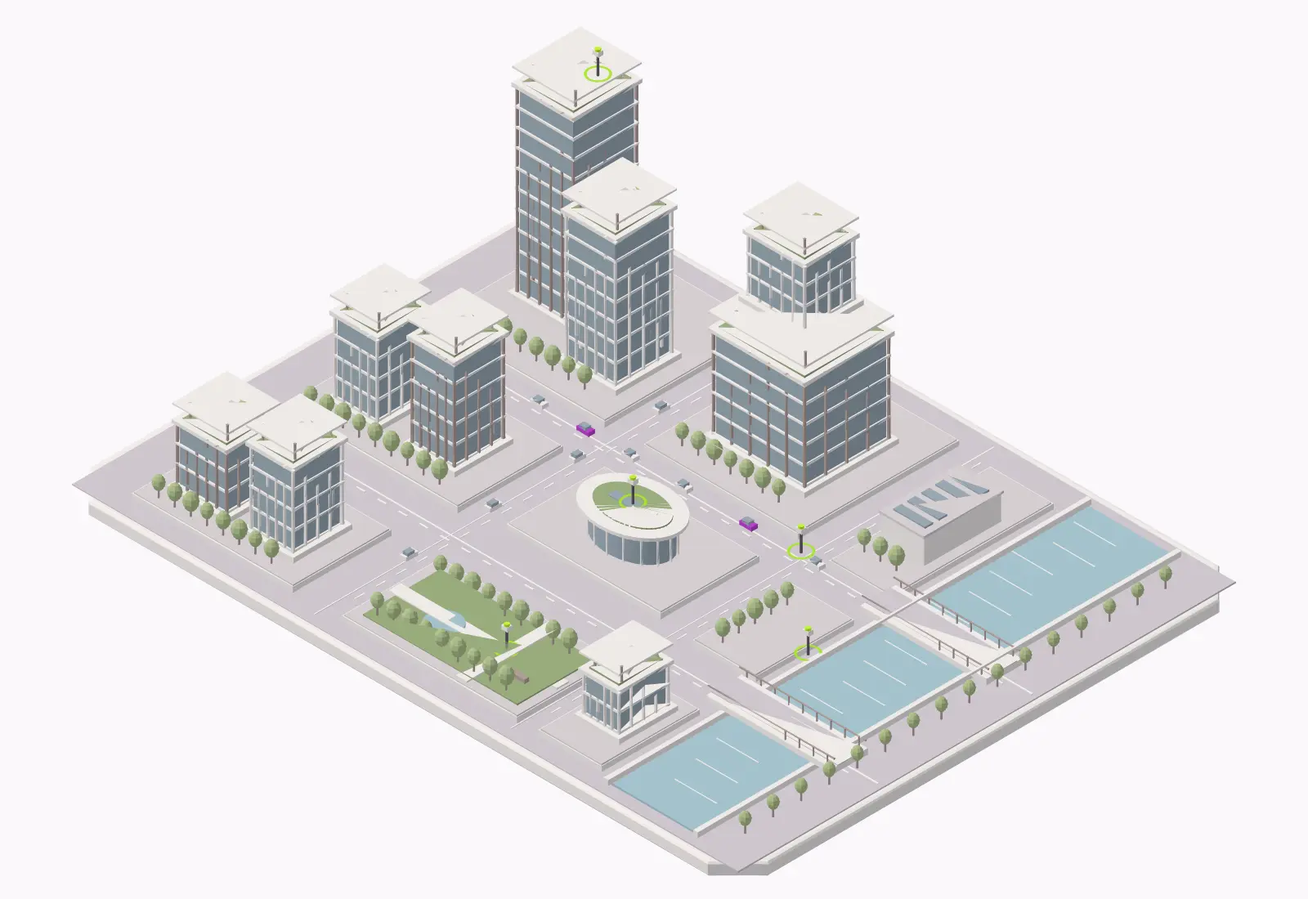
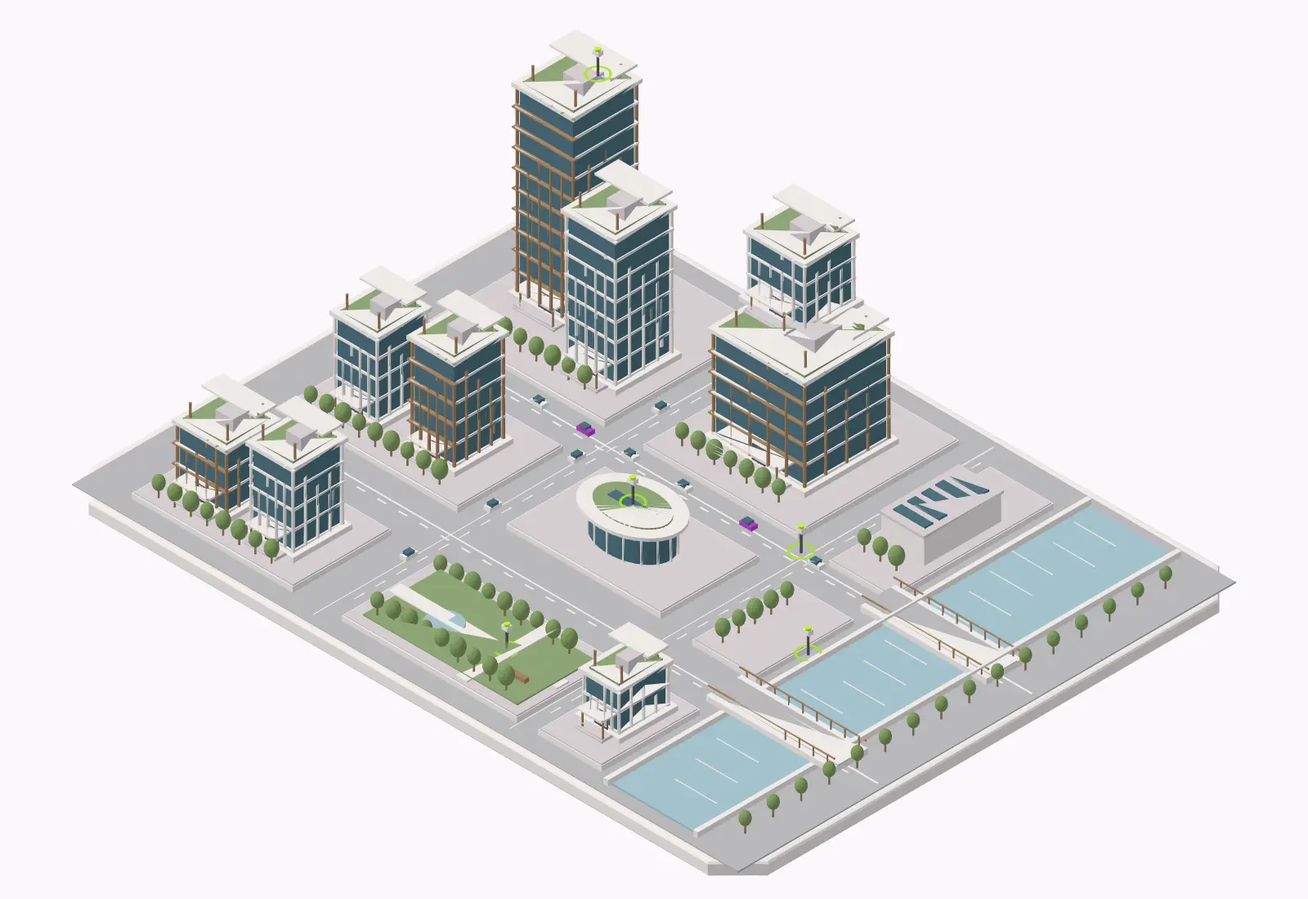
Smooth city transitions, preserve rendering quality, and simplify solution explanations

diff --git a/src/intelligence/app.js b/src/intelligence/app.js
@@ -1,5 +1,5 @@
 import './style.css';
-import {chapters,useCases,assetInfo,stateAt,chapterProgress,useProgress,totalLength} from './content.js';
+import {chapters,useCases,simpleCases,assetInfo,stateAt,chapterProgress,useProgress,totalLength} from './content.js';
 const $=q=>document.querySelector(q),$$=q=>[...document.querySelectorAll(q)];
 const arrow='<svg viewBox="0 0 24 24" fill="none" stroke="currentColor" stroke-width="1.6" aria-hidden="true"><path d="M5 12h14m-6-6 6 6-6 6"/></svg>';
 const mark='<svg viewBox="0 0 38 38" fill="none" aria-hidden="true"><path d="m19 3 15 8v16l-15 8L4 27V11Z" stroke="currentColor" stroke-width="1.5"/><path d="m4 11 15 8 15-8M19 19v16" stroke="currentColor" stroke-width="1.5"/><path d="m19 9 9 5-9 5-9-5Z" fill="#c7ff3d"/></svg>';
@@ -18,27 +18,27 @@ document.querySelector('#app').innerHTML=`
 <p class="disclosure">Illustrative experience using mock data. Not connected to live systems.</p></main><div id="scroll-space" aria-hidden="true"></div><div id="announce" class="sr" aria-live="polite"></div>
 <section class="mobile-summary"><img class="city-poster" src="/city-intelligence-poster.webp" alt="Isometric city with workplace towers, residences, an operations pavilion, a riverside park and bridges" loading="lazy" width="1600" height="1100"><h2>A city in perspective.</h2><p>Explore the complete 3D story on a desktop. This lightweight summary follows the same roadmap.</p>${chapters.map((c,i)=>`<article><span>0${i+1} / ${c.name}</span><h3>${c.title.replaceAll('\n',' ')}</h3><p>${c.copy}</p></article>`).join('')}</section>`;
 $('#scroll-space').style.height=`${totalLength*100+100}vh`;
-let scene=null,current=stateAt(0),lastKey='',reduced=matchMedia('(prefers-reduced-motion: reduce)').matches,lastOpener=null;
+let scene=null,current=stateAt(0),lastKey='',lastContext='',reduced=matchMedia('(prefers-reduced-motion: reduce)').matches,lastOpener=null;
 $('#motion').setAttribute('aria-pressed',String(reduced));document.body.classList.toggle('reduced',reduced);
 const miniChart=(v=0,color='orchid')=>`<svg class="spark ${color}" viewBox="0 0 240 52" aria-label="Illustrative trend"><path d="M0 42H240" class="baseline"/><path d="M0 38 24 36 48 39 72 32 96 34 120 27 144 28 168 ${28-v*10} 192 ${22-v*12} 216 ${20-v*14} 240 ${18-v*15}"/></svg>`;
 function context(s){
  if(s.index===0)return `<div class="quiet-context"><span class="live-pill"><i></i>A living network</span><div class="signal-row"><span>Traffic</span><b>Moving</b></div><div class="signal-row"><span>Environment</span><b>Observed</b></div><div class="signal-row"><span>Infrastructure</span><b>Connected by place</b></div></div>`;
  if(s.index===1){const names=['GIS','CCTV & video','Traffic management','Building & energy','Incident & service','Environment & weather','Reports & spreadsheets'];return `<div class="system-silos"><p>Different systems. Different moments.</p>${names.map((n,i)=>`<div><i></i><span>${n}</span><small>${[2,12,4,18,7,3,60][i]} min ago</small></div>`).join('')}<p class="warning-text">Waterway event · awareness delayed</p></div>`;}
- if(s.index===2)return `<div class="platform-card"><span class="live-pill"><i></i>Shared operational context</span><h2>Many sources.<br>One perspective.</h2><ol>${['Data sources','Integration & APIs','Governed data platform','Analytics & Operational Twin','Operational applications'].map((x,i)=>`<li class="${s.local>i*.12?'on':''}"><span>0${i+1}</span>${x}</li>`).join('')}</ol><p class="governance">Security & governance across every layer</p></div>`;
- if(s.index===3)return `<div class="operation-card"><span class="card-label">Operational Digital Twin</span><h2>${s.local>.6?'Revisit the sequence.':'Give data a place.'}</h2><div class="layer-row"><b>Asset registry</b><span>Locations & relationships</span></div><div class="layer-row"><b>Event layer</b><span>Alerts in their physical context</span></div><div class="layer-row"><b>Historical playback</b><span>${s.local>.6?'Earlier observations selected':'Current observations selected'}</span></div><div class="timeline"><i style="left:${Math.round(s.local*90)}%"></i></div><p>Current state and history stay distinct. Predictive overlays arrive in Phase 3.</p></div>`;
- if(s.index===4)return `<div class="operation-card"><span class="card-label">Device health & freshness</span><h2>Signals with context.</h2>${[['Water level','0.82 m'],['Air quality','18 µg/m³'],['Traffic camera','Low density'],['Energy meter','420 kW'],['Weather station','0 mm/h']].map(([n,v],i)=>`<div class="sensor-row ${s.local>i*.13?'on':''}"><i></i><span>${n}<small>${s.local>i*.13?'Healthy · updated 12 sec ago':'Information gap identified'}</small></span><b>${s.local>i*.13?v:'—'}</b></div>`).join('')}<p>Illustrative near real-time observations.</p></div>`;
- if(s.index===5){const u=useCases[s.useIndex],value=[s.water.toFixed(2),s.traffic,s.air,s.energy,s.incident][s.useIndex];return `<div class="operation-card usecase-card"><span class="card-label">${String(s.useIndex+1).padStart(2,'0')} / 05 · ${u.name}</span><div class="metric"><span>${u.metric}</span><strong>${value}<small>${u.unit}</small></strong><p>${u.baseline}</p></div>${miniChart(s.u)}<div class="flow-copy"><span>Connect</span><p>${u.source}</p><span>Understand</span><p>${u.process}</p><span>Act</span><p>${u.action}</p></div><button class="detail-link" data-asset="${u.focus}">Inspect this solution ${arrow}</button></div>`;}
+ if(s.index===2)return `<div class="platform-card"><span class="live-pill"><i></i>Shared operational context</span><h2>Many sources.<br>One perspective.</h2><ol>${['Keep existing systems','Connect their information','Check quality and access','Show the same situation','Coordinate the next action'].map((x,i)=>`<li class="${s.local>i*.12?'on':''}"><span>0${i+1}</span>${x}</li>`).join('')}</ol><p class="governance">Security & governance across every layer</p></div>`;
+ if(s.index===3)return `<div class="operation-card"><span class="card-label">Operational Digital Twin</span><h2>${s.local>.6?'Revisit the sequence.':'Give data a place.'}</h2><div class="layer-row"><b>Where is it?</b><span>Buildings and devices on the map</span></div><div class="layer-row"><b>What happened?</b><span>Alerts beside the affected asset</span></div><div class="layer-row"><b>What changed?</b><span>${s.local>.6?'Earlier observations selected':'Current observations selected'}</span></div><div class="timeline"><i style="left:${Math.round(s.local*90)}%"></i></div><p>Current state and history stay distinct. Predictive overlays arrive in Phase 3.</p></div>`;
+ if(s.index===4)return `<div class="operation-card"><span class="card-label">Device health & freshness</span><h2>Fresh readings.<br>Working devices.</h2>${[['Water level','0.82 m'],['Air quality','18 µg/m³'],['Traffic camera','Low density'],['Energy meter','420 kW'],['Weather station','0 mm/h']].map(([n,v],i)=>`<div class="sensor-row ${s.local>i*.13?'on':''}"><i></i><span>${n}<small>${s.local>i*.13?'Healthy · updated 12 sec ago':'Information gap identified'}</small></span><b>${s.local>i*.13?v:'—'}</b></div>`).join('')}<p>Illustrative near real-time observations.</p></div>`;
+ if(s.index===5){const u=useCases[s.useIndex],simple=simpleCases[s.useIndex],step=s.u<.33?0:s.u<.66?1:2,value=[s.water.toFixed(2),s.traffic,s.air,s.energy,s.incident][s.useIndex];return `<div class="operation-card usecase-card"><span class="card-label">${String(s.useIndex+1).padStart(2,'0')} / 05 · ${u.name}</span><div class="metric"><span>${u.metric}</span><strong>${value}<small>${u.unit}</small></strong><p>${u.baseline}</p></div>${miniChart(s.u)}<ol class="explain-steps">${[["What happens",simple.problem],["What you see",simple.see],["What the team does",simple.act]].map(([label,text],i)=>`<li class="${i===step?'active':''}"><span>${i+1}</span><div><b>${label}</b><p>${text}</p></div></li>`).join('')}</ol><button class="detail-link" data-asset="${u.focus}">How this solution works ${arrow}</button></div>`;}
  if(s.index===6)return `<div class="operation-card prediction-card"><span class="card-label">Illustrative forecast</span><h2>30 minutes ahead.</h2><div class="comparison"><div><span>Observed now</span><strong>1.26<small>m</small></strong></div><div><span>Predicted +30 min</span><strong>${(1.26+s.forecast*.72).toFixed(2)}<small>m</small></strong></div></div>${miniChart(s.forecast)}<p class="warning-text">Rising faster than the historical pattern</p><ol class="recommendations"><li>Review exposed access roads</li><li>Verify field conditions with the team</li><li>Prepare response resources</li></ol><div class="demo-actions"><button disabled>Review</button><button disabled>Approve</button></div><p>Visual demonstration only. People remain responsible for every decision.</p>${s.local>.8?'<p class="energy-note">Energy anomaly · 548 kW vs 420 kW baseline. Inspection recommended; cause unconfirmed.</p>':''}</div>`;
  return `<div class="roadmap-card"><span class="card-label">Build on each phase</span><h2>Start focused.<br>Scale with purpose.</h2><ol>${['Connect existing data','Create operational visibility','Expand with IoT','Advance with AI','Measure and scale'].map((x,i)=>`<li><span>0${i+1}</span>${x}</li>`).join('')}</ol><p>Shared visibility. Earlier awareness.<br>More coordinated operations.</p></div>`;
 }
 function update(p){current=stateAt(p);const s=current,c=chapters[s.index];const key=`${s.index}-${s.useIndex}`;
- if(key!==lastKey){lastKey=key;$('#chapter-number').textContent=`${String(s.index+1).padStart(2,'0')} / 08`;$('#chapter-name').textContent=c.name;$('#story-title').textContent=s.index===5?useCases[s.useIndex].title:c.title;$('#story-copy').textContent=s.index===5?useCases[s.useIndex].copy:c.copy;$('#story-note').textContent=c.note;$('#start').hidden=s.index!==0;$('#usecases').hidden=s.index!==5;$('#footer-count').textContent=`${String(s.index+1).padStart(2,'0')} / 08`;$('#previous').disabled=s.index===0;$('#next').disabled=s.index===7;$('#scroll-label').textContent=s.index===7?'Restart to explore again':'Scroll to discover';$('#announce').textContent=`Chapter ${s.index+1}: ${c.name}`;$$('[data-chapter]').forEach((b,i)=>b.setAttribute('aria-current',i===s.index?'step':'false'));$$('[data-use]').forEach((b,i)=>b.setAttribute('aria-current',i===s.useIndex?'step':'false'));document.body.dataset.chapter=s.index;}
- $('#total-progress').style.width=`${s.p*100}%`;$('#context').innerHTML=context(s);$('#scene-state').textContent=s.index===6?'Current observations + predicted impact':s.index===1?'Disconnected systems':s.index>=2?'One shared operational view':'A connected view of city life';
+ if(key!==lastKey){if(!reduced&&lastKey){$('.story-copy').animate([{opacity:.35,transform:'translateY(6px)'},{opacity:1,transform:'translateY(0)'}],{duration:260,easing:'ease-out'});}lastKey=key;$('#chapter-number').textContent=`${String(s.index+1).padStart(2,'0')} / 08`;$('#chapter-name').textContent=c.name;$('#story-title').textContent=s.index===5?useCases[s.useIndex].title:c.title;$('#story-copy').textContent=s.index===5?useCases[s.useIndex].copy:c.copy;$('#story-note').textContent=c.note;$('#start').hidden=s.index!==0;$('#usecases').hidden=s.index!==5;$('#footer-count').textContent=`${String(s.index+1).padStart(2,'0')} / 08`;$('#previous').disabled=s.index===0;$('#next').disabled=s.index===7;$('#scroll-label').textContent=s.index===7?'Restart to explore again':'Scroll to discover';$('#announce').textContent=`Chapter ${s.index+1}: ${c.name}`;$$('[data-chapter]').forEach((b,i)=>b.setAttribute('aria-current',i===s.index?'step':'false'));$$('[data-use]').forEach((b,i)=>b.setAttribute('aria-current',i===s.useIndex?'step':'false'));document.body.dataset.chapter=s.index;}
+ $('#total-progress').style.width=`${s.p*100}%`;const nextContext=context(s);if(nextContext!==lastContext){$('#context').innerHTML=nextContext;lastContext=nextContext;}$('#scene-state').textContent=s.index===6?'Current observations + predicted impact':s.index===1?'Disconnected systems':s.index>=2?'One shared operational view':'A connected view of city life';
  $('#return').hidden=true;scene?.update(s,reduced);
 }
 function scrollP(){return window.scrollY/Math.max(1,document.documentElement.scrollHeight-innerHeight);}
 let pending=false;addEventListener('scroll',()=>{if(pending)return;pending=true;requestAnimationFrame(()=>{pending=false;update(scrollP());});},{passive:true});
-function jump(p){window.scrollTo({top:p*(document.documentElement.scrollHeight-innerHeight),behavior:'instant'});update(p);}
+function jump(p){window.scrollTo({top:p*(document.documentElement.scrollHeight-innerHeight),behavior:reduced?'instant':'smooth'});if(reduced)update(p);}
 function chapter(i){const n=Math.max(0,Math.min(7,i));jump(chapterProgress(n)+.0001);history.replaceState(null,'',`#chapter-${n+1}`);}
 $('#start').onclick=()=>chapter(1);$('#next').onclick=()=>chapter(current.index+1);$('#previous').onclick=()=>chapter(current.index-1);$('#restart').onclick=()=>chapter(0);$('.identity').onclick=e=>{e.preventDefault();chapter(0);};
 $('#motion').onclick=()=>{reduced=!reduced;$('#motion').setAttribute('aria-pressed',String(reduced));document.body.classList.toggle('reduced',reduced);scene?.update(current,reduced);};

diff --git a/src/intelligence/scene.js b/src/intelligence/scene.js
@@ -6,25 +6,27 @@ import {createCity} from './model.js';
 import {chapters,useCases} from './content.js';
 export async function mountScene(host,{select,manual,ready}){
  const scene=new T.Scene();const tagLayer=document.createElement('div');tagLayer.className='map-tags';host.appendChild(tagLayer);const tags=['water','office','hub'].map(id=>{const el=document.createElement('span');el.className='map-tag';tagLayer.appendChild(el);return {id,el};});const city=createCity();scene.add(city.root);
- scene.add(new T.HemisphereLight(0xffffff,0x9c8fa5,2.5));const sun=new T.DirectionalLight(0xfff8f1,3.4);sun.position.set(-40,85,45);sun.castShadow=true;sun.shadow.mapSize.set(2048,2048);Object.assign(sun.shadow.camera,{left:-70,right:70,top:70,bottom:-70,near:1,far:180});sun.shadow.bias=-.0003;sun.shadow.normalBias=.1;sun.shadow.radius=3;scene.add(sun);
+ scene.add(new T.HemisphereLight(0xffffff,0x9c8fa5,1.3));const sun=new T.DirectionalLight(0xfff8f1,2.5);sun.position.set(-40,85,45);sun.castShadow=true;sun.shadow.mapSize.set(2048,2048);Object.assign(sun.shadow.camera,{left:-70,right:70,top:70,bottom:-70,near:1,far:180});sun.shadow.bias=-.0003;sun.shadow.normalBias=.1;sun.shadow.radius=3;scene.add(sun);
  let renderer,webgl=true,pmrem;
- try{renderer=new T.WebGLRenderer({antialias:true,alpha:true,powerPreference:'high-performance'});renderer.setPixelRatio(Math.min(devicePixelRatio,2));renderer.shadowMap.enabled=true;renderer.shadowMap.type=T.PCFSoftShadowMap;renderer.toneMapping=T.ACESFilmicToneMapping;renderer.toneMappingExposure=1.18;pmrem=new T.PMREMGenerator(renderer);scene.environment=pmrem.fromScene(new RoomEnvironment(),.08).texture;pmrem.dispose();}
+ try{renderer=new T.WebGLRenderer({antialias:true,alpha:true,powerPreference:'high-performance'});renderer.setPixelRatio(Math.min(devicePixelRatio,2));renderer.shadowMap.enabled=true;renderer.shadowMap.type=T.PCFSoftShadowMap;renderer.toneMapping=T.ACESFilmicToneMapping;renderer.toneMappingExposure=.98;pmrem=new T.PMREMGenerator(renderer);scene.environment=pmrem.fromScene(new RoomEnvironment(),.08).texture;scene.environmentIntensity=.65;pmrem.dispose();}
  catch{webgl=false;renderer=new SVGRenderer();renderer.setQuality('low');sun.intensity=.65;scene.add(new T.AmbientLight(0xaaaaaa,1));}
  renderer.setClearColor(0xfaf8fc,0);host.appendChild(renderer.domElement);
  renderer.domElement.setAttribute('aria-label','Interactive isometric city. Use the location buttons to inspect solutions.');
  const camera=new T.OrthographicCamera(-60,60,50,-50,.1,400);const angle=Math.PI/4,polar=55*Math.PI/180;
  const controls=new OrbitControls(camera,renderer.domElement);controls.enableDamping=false;controls.enablePan=false;controls.enableZoom=false;controls.minAzimuthAngle=angle-12*Math.PI/180;controls.maxAzimuthAngle=angle+12*Math.PI/180;controls.minPolarAngle=polar-5*Math.PI/180;controls.maxPolarAngle=polar+5*Math.PI/180;
  let state=null,span=112,frame=0,isManual=false,dirty=true,point=new T.Vector3(0,6,0),last=0,low=false;
- const targets={all:[0,10,0],hub:[0,5,3],office:[-16,12,-18],water:[21,4,3],traffic:[5,4,-3],park:[0,3,21],residence:[-29,7,8]};
- function resize(){const w=host.clientWidth,h=host.clientHeight;if(!w||!h)return;renderer.setSize(w,h);camera.left=-span/2;camera.right=span/2;camera.top=span/2*h/w;camera.bottom=-span/2*h/w;camera.updateProjectionMatrix();dirty=true;}
- function canonical(focus,desiredSpan,previous=null,t=1){point.fromArray(targets[focus]||targets.all);if(previous)point.lerpVectors(new T.Vector3(...(targets[previous]||targets.all)),point,t);controls.target.copy(point);const dir=new T.Vector3(Math.sin(polar)*Math.sin(angle),Math.cos(polar),Math.sin(polar)*Math.cos(angle));camera.position.copy(point).addScaledVector(dir,145);camera.lookAt(point);span=desiredSpan;camera.zoom=1;resize();controls.update();isManual=false;}
+ let desiredPoint=new T.Vector3(0,10,0),desiredSpan=136,settleImmediately=true;const direction=new T.Vector3(Math.sin(polar)*Math.sin(angle),Math.cos(polar),Math.sin(polar)*Math.cos(angle));
+ const targets={all:[0,10,0],hub:[0,8,3],office:[-10,13,-12],water:[13,8,4],traffic:[3,8,-3],park:[0,7,13],residence:[-29,7,8]};
+ let viewWidth=0,viewHeight=0;function resize(){const w=host.clientWidth,h=host.clientHeight;if(!w||!h)return;if(w!==viewWidth||h!==viewHeight){renderer.setSize(w,h);viewWidth=w;viewHeight=h;}camera.left=-span/2;camera.right=span/2;camera.top=span/2*h/w;camera.bottom=-span/2*h/w;camera.updateProjectionMatrix();dirty=true;}
+ function canonical(focus,nextSpan,previous=null,t=1){desiredPoint.fromArray(targets[focus]||targets.all);if(previous)desiredPoint.lerpVectors(new T.Vector3(...(targets[previous]||targets.all)),desiredPoint,t);desiredSpan=nextSpan;isManual=false;dirty=true;}
+ function applyCamera(alpha=1){point.lerp(desiredPoint,alpha);span+=(desiredSpan-span)*alpha;controls.target.copy(point);camera.position.copy(point).addScaledVector(direction,145);camera.lookAt(point);camera.zoom=1;resize();controls.update();}
  controls.addEventListener('start',()=>{isManual=true;manual();});controls.addEventListener('change',()=>{dirty=true;});
  const ray=new T.Raycaster();let down;
  renderer.domElement.addEventListener('pointerdown',e=>down=[e.clientX,e.clientY]);
  renderer.domElement.addEventListener('pointerup',e=>{if(!down||Math.hypot(e.clientX-down[0],e.clientY-down[1])>5)return;const b=renderer.domElement.getBoundingClientRect();ray.setFromCamera(new T.Vector2((e.clientX-b.left)/b.width*2-1,-(e.clientY-b.top)/b.height*2+1),camera);for(const hit of ray.intersectObject(city.root,true)){let o=hit.object;while(o&&!o.userData.asset)o=o.parent;if(o){select(o.userData.asset);break;}}});
  new ResizeObserver(resize).observe(host);
- function update(s,reduced=false){state=s;city.update(s);const c=chapters[s.index];const f=s.focus;const nextSpan=s.index===5?98:c.span;const before=s.index===5?(s.useIndex?useCases[s.useIndex-1].focus:chapters[4].focus):s.index===6?useCases[4].focus:chapters[Math.max(0,s.index-1)].focus;const local=s.index===5?s.u:s.local;const t=reduced?1:Math.min(1,local/.2);const eased=t*t*(3-2*t);const prevSpan=s.index===5?(s.useIndex?98:chapters[4].span):s.index===6?98:chapters[Math.max(0,s.index-1)].span;canonical(f,prevSpan+(nextSpan-prevSpan)*eased,before,eased);dirty=true;}
- function render(now){frame=requestAnimationFrame(render);if(document.hidden||!dirty||now-last<(webgl?16:110))return;last=now;const begin=performance.now();renderer.render(scene,camera);if(state){const labels={water:state.index===6?'Predicted impact · +30 min':state.flood>.3?`Water level · ${state.water.toFixed(2)} m`:'Waterway / Environmental data',office:state.index===5&&state.useIndex===3?`Building demand · ${state.energy} kW`:'Workplace / Energy data',hub:state.index===1?'Shared view missing':'Operations / Shared context'};for(const {id,el} of tags){const pos=new T.Vector3(...city.locations[id]);pos.y+=4;pos.project(camera);const x=(pos.x+1)/2*host.clientWidth,y=(1-pos.y)/2*host.clientHeight;el.hidden=x<50||x>host.clientWidth-100||y<30||y>host.clientHeight-35||(state.index>2&&state.index<7&&state.focus!==id);el.style.transform=`translate(${x}px,${y}px)`;el.textContent=labels[id];}}dirty=false;if(webgl&&!low&&performance.now()-begin>45){renderer.setPixelRatio(1);renderer.shadowMap.enabled=false;low=true;dirty=true;}}
- canonical('all',136);render(0);ready(webgl?'3D ready':'Lightweight 3D view');
+ function update(s,reduced=false){state=s;settleImmediately=reduced;city.update(s);const c=chapters[s.index];const f=s.focus;const nextSpan=s.index===5?112:c.span;const before=s.index===5?(s.useIndex?useCases[s.useIndex-1].focus:chapters[4].focus):s.index===6?useCases[4].focus:chapters[Math.max(0,s.index-1)].focus;const local=s.index===5?s.u:s.local;const t=reduced?1:Math.min(1,local/.55);const eased=t*t*(3-2*t);const prevSpan=s.index===5?(s.useIndex?112:chapters[4].span):s.index===6?112:chapters[Math.max(0,s.index-1)].span;canonical(f,prevSpan+(nextSpan-prevSpan)*eased,before,eased);dirty=true;}
+ function render(now){frame=requestAnimationFrame(render);if(document.hidden||!dirty||now-last<(webgl?16:110))return;const dt=Math.min(50,now-last||16);last=now;if(!isManual)applyCamera(settleImmediately?1:1-Math.exp(-dt/85));const moving=!isManual&&(point.distanceTo(desiredPoint)>.005||Math.abs(span-desiredSpan)>.005);renderer.render(scene,camera);if(state){const labels={water:state.index===6?'Predicted impact · +30 min':state.flood>.3?`Water level · ${state.water.toFixed(2)} m`:'Waterway / Environmental data',office:state.index===5&&state.useIndex===3?`Building demand · ${state.energy} kW`:'Workplace / Energy data',hub:state.index===1?'Shared view missing':'Operations / Shared context'};for(const {id,el} of tags){const pos=new T.Vector3(...city.locations[id]);pos.y+=4;pos.project(camera);const x=(pos.x+1)/2*host.clientWidth,y=(1-pos.y)/2*host.clientHeight;el.hidden=x<50||x>host.clientWidth-100||y<30||y>host.clientHeight-35||(state.index>2&&state.index<7&&state.focus!==id);el.style.transform=`translate(${x}px,${y}px)`;el.textContent=labels[id];}}dirty=moving;}
+ canonical('all',136);applyCamera(1);render(0);ready(webgl?'3D ready':'Lightweight 3D view');
  return {update,focus(id){canonical(id,75);dirty=true;},restore(){if(state)update(state);},resize,dispose(){cancelAnimationFrame(frame);controls.dispose();renderer.dispose?.();}};
 }

diff --git a/src/intelligence/content.js b/src/intelligence/content.js
@@ -1,11 +1,11 @@
 export const chapters = [
  {name:'A living city',title:'Every city has\na story in its data.',copy:'Movement. Energy. Water. People. A living network of signals, waiting to become a shared understanding.',note:'Start with the city you already have.',focus:'all',span:136,length:1.3},
  {name:'The disconnect',title:'The data exists.\nThe connection\nis missing.',copy:'Seven valuable systems. Different update times. Separate views of the same city. An incident can be visible to one team and invisible to another.',note:'Fragmented information delays shared awareness.',focus:'all',span:136,length:1.6},
- {name:'One connected platform',title:'Bring the pieces\ninto perspective.',copy:'Connect existing systems through one governed data platform. Give every source a shared location, asset and operational context.',note:'Connect existing systems. Preserve their value.',focus:'hub',span:86,length:1.5},
- {name:'01 / Data foundation',title:'Start with what\nyou already know.',copy:'Turn existing GIS, asset records and events into an Operational Digital Twin. See current status, explore relationships and revisit what happened.',note:'An operational view, not a physics simulation.',focus:'office',span:88,length:1.6},
- {name:'02 / IoT visibility',title:'Fill the gaps.\nSee the change.',copy:'Add sensors where information is missing. Bring field conditions, device health and data freshness into the same operational picture.',note:'Every new device serves a defined information gap.',focus:'water',span:93,length:1.6},
+ {name:'One connected platform',title:'Bring the pieces\ninto perspective.',copy:'Connect existing systems through one governed data platform. Give every source a shared location, asset and operational context.',note:'Connect existing systems. Preserve their value.',focus:'hub',span:112,length:1.5},
+ {name:'01 / Data foundation',title:'Start with what\nyou already know.',copy:'Turn existing GIS, asset records and events into an Operational Digital Twin. See current status, explore relationships and revisit what happened.',note:'An operational view, not a physics simulation.',focus:'office',span:112,length:1.6},
+ {name:'02 / IoT visibility',title:'Fill the gaps.\nSee the change.',copy:'Add sensors where information is missing. Bring field conditions, device health and data freshness into the same operational picture.',note:'Every new device serves a defined information gap.',focus:'water',span:112,length:1.6},
  {name:'One platform. Five priorities.',title:'Connected data.\nPractical action.',copy:'Move between five operational priorities, all connected to the same city and the same foundation.',note:'Scroll to follow each use case.',focus:'water',span:83,length:4.6},
- {name:'03 / AI intelligence',title:'See what is.\nAnticipate\nwhat comes next.',copy:'Compare current conditions with an illustrative forecast. Detect unusual patterns and bring recommended actions to the people responsible.',note:'AI recommends. People review and decide.',focus:'water',span:89,length:2.2},
+ {name:'03 / AI intelligence',title:'See what is.\nAnticipate\nwhat comes next.',copy:'Compare current conditions with an illustrative forecast. Detect unusual patterns and bring recommended actions to the people responsible.',note:'AI recommends. People review and decide.',focus:'water',span:112,length:2.2},
  {name:'The way forward',title:'A connected city.\nA clearer way\nforward.',copy:'Connect existing data. See every situation. Scale from IoT to AI.',note:'Start with a priority. Measure progress. Expand with purpose.',focus:'all',span:136,length:1.3},
 ];
 export const useCases=[
@@ -35,3 +35,24 @@ export function stateAt(progress){
 }
 export function chapterProgress(index){return chapters.slice(0,index).reduce((s,c)=>s+c.length,0)/totalLength;}
 export function useProgress(index){return chapterProgress(5)+chapters[5].length/totalLength*((index+.08)/5);}
+
+// The guided story explains the operational situation first; technical detail is optional.
+const plainChapters=[
+ ['See how a city\nworks together.','Follow one city from disconnected information to coordinated action. Scroll to see how data, sensors and AI help its teams.'],
+ ['A rising river.\nSeparate views.','The water team sees a warning. The traffic team sees a road. Neither sees the whole situation yet.'],
+ ['Connect the data.\nShare the picture.','Bring existing maps, camera events and sensor readings together, so teams can understand the same incident.'],
+ ['See the asset.\nSee its history.','Put buildings, devices and events on one shared map. Check their status and look back at earlier observations.'],
+ ['Measure what\nyou cannot see.','Add sensors where readings are missing. Check water, air, traffic and energy, with a timestamp and device-health status.'],
+ ['One city.\nFive ways to help.','Follow five everyday situations, from the first signal to the next human decision.'],
+ ['Could this road\nflood next?','Compare today’s water level with an illustrative 30-minute forecast. The platform suggests actions; a person reviews them.'],
+ ['Start with data.\nGrow with purpose.','Connect existing systems first. Add sensors where needed. Introduce AI when the information is ready.'],
+];
+plainChapters.forEach(([title,copy],i)=>Object.assign(chapters[i],{title,copy}));
+export const simpleCases=[
+ {title:'Water is rising.\nWhich road is at risk?',copy:'See the water level, the nearby road and the response route together.',problem:'Heavy rain raises the water level.',see:'Show the nearby road and the water warning together.',act:'Review a safer route for the response team.'},
+ {title:'Traffic is building.\nWhere is the blockage?',copy:'Locate congestion and the reported incident, then review another route.',problem:'Traffic slows around a road incident.',see:'Show the blockage and affected road segments.',act:'Review an alternate route with the traffic team.'},
+ {title:'Air quality changes.\nWhich area needs attention?',copy:'Compare the latest reading with earlier conditions and locate the affected zone.',problem:'A station reports higher PM2.5.',see:'Show where readings rose and how they changed.',act:'Ask the environmental team to investigate.'},
+ {title:'One building uses\nmore energy than usual.',copy:'Compare its current demand with its normal pattern before requesting an inspection.',problem:'Demand rises above the building’s baseline.',see:'Compare current demand with normal consumption.',act:'Request an inspection. The cause is not confirmed.'},
+ {title:'An incident opens.\nWho is responding?',copy:'Keep the event, its location and the assigned team in one shared record.',problem:'An incident is reported in a public area.',see:'Link the location, camera event and assigned team.',act:'Track the handover through to resolution.'},
+];
+simpleCases.forEach((c,i)=>Object.assign(useCases[i],{title:c.title,copy:c.copy}));

diff --git a/src/intelligence/model.js b/src/intelligence/model.js
@@ -3,13 +3,13 @@ const cube=new T.BoxGeometry(1,1,1);
 const M=(c,extra={})=>new T.MeshStandardMaterial({color:c,roughness:.55,...extra});
 export function createCity(){
  const root=new T.Group(),buildings=new T.Group(),layers=new T.Group();root.add(buildings,layers);
- const colors={ivory:M('#f7f5f6'),stone:M('#ddd8df'),glass:M('#9eafbe',{metalness:.45,roughness:.2}),dark:M('#665e70'),bronze:M('#b7a5a2',{metalness:.5}),road:M('#d5d0db'),line:M('#ffffff'),green:M('#9eb385'),leaf:M('#b4c896'),lime:M('#c7ff3d'),orchid:M('#c044d9'),water:M('#a9cbd9',{metalness:.35,roughness:.18}),plum:M('#52205e'),warning:M('#f2b84b')};
+ const colors={ivory:M('#f7f5f6'),stone:M('#ddd8df'),glass:M('#517786',{metalness:.32,roughness:.27}),dark:M('#665e70'),bronze:M('#aa8a68',{metalness:.35,roughness:.45}),road:M('#bfc2c8'),line:M('#ffffff'),green:M('#92ac7e'),leaf:M('#88a56a'),lime:M('#c7ff3d'),orchid:M('#c044d9'),water:M('#a9cbd9',{metalness:.35,roughness:.18}),plum:M('#52205e'),warning:M('#f2b84b')};
  const assets={},originals=[],sensors=[],paths=[],silos=[],energyBars=[],tiles=[];
  function box(g,w,h,d,x,y,z,m=colors.ivory){const a=new T.Mesh(cube,m);a.scale.set(w,h,d);a.position.set(x,y,z);a.castShadow=true;a.receiveShadow=true;g.add(a);return a;}
  function cyl(g,r,h,x,y,z,m,segments=20){const a=new T.Mesh(new T.CylinderGeometry(r,r,h,segments),m);a.position.set(x,y,z);a.castShadow=true;a.receiveShadow=true;g.add(a);return a;}
  function asset(id,x,z){const g=new T.Group();g.position.set(x,0,z);g.userData.asset=id;buildings.add(g);if(!assets[id])assets[id]=g;return g;}
  function tile(g,w,d,x,z){let a=box(g,w,.65,d,x,.05,z,colors.ivory);a.renderOrder=-8;tiles.push(a);box(g,w-.35,.1,d-.35,x,.42,z,colors.stone).renderOrder=-7;}
- function tree(g,x,z,scale=1){cyl(g,.09,1.5,x,1.25,z,colors.bronze,5);let a=new T.Mesh(new T.SphereGeometry(.85,8,6),colors.leaf);a.position.set(x,2.3,z);a.scale.set(scale,1.3*scale,scale);a.castShadow=true;g.add(a);}
+ function tree(g,x,z,scale=1){cyl(g,.09,1.5,x,1.25,z,colors.bronze,5);let a=new T.Mesh(new T.SphereGeometry(.85,16,12),colors.leaf);a.position.set(x,2.3,z);a.scale.set(scale,1.3*scale,scale);a.castShadow=true;g.add(a);}
  function grove(g,x,z,n,axis='x'){for(let i=0;i<n;i++)tree(g,x+(axis==='x'?i*2.3:0),z+(axis==='z'?i*2.3:0),.8+(i%3)*.1);}
  function roofGarden(g,w,d,y){box(g,w,.18,d,0,y,0,colors.green);for(let i=0;i<3;i++){box(g,w/4,.4,1.2,-w/3+i*w/3,y+.25,-d/3,colors.stone);let a=new T.Mesh(new T.SphereGeometry(.6,8,5),colors.leaf);a.scale.x=2;a.position.set(-w/3+i*w/3,y+.65,-d/3);g.add(a);}}
  function tower(g,x,z,w,d,floors,variant=0){const t=new T.Group();t.position.set(x,.5,z);g.add(t);const h=floors*2.5;
@@ -21,7 +21,14 @@ export function createCity(){
   box(t,w*.36,1.5,d*.32,w*.12,h+2,0,colors.stone);
   // Thin roof canopy and open columns produce an architectural crown.
   for(const dx of [-w*.38,w*.38])for(const dz of [-d*.36,d*.36])box(t,.16,1.9,.16,dx,h+2.2,dz,colors.bronze);
-  box(t,w+.7,.18,d+.7,0,h+3.15,0,colors.ivory);
+  box(t,w+.7,.22,d*.42,0,h+3.15,-d*.26,colors.ivory);
+  // Recessed arrival lobby, entrance canopy and a planted terrace.
+  box(t,w*.7,.16,2.1,0,2.45,d/2+.65,colors.ivory);
+  for(const dx of [-w*.29,w*.29])box(t,.13,2.1,.13,dx,1.22,d/2+1.25,colors.bronze);
+  box(t,1.8,1.9,.1,0,1.38,d/2+.04,colors.dark);
+  box(t,.055,1.9,.12,0,1.38,d/2+.11,colors.bronze);
+  for(let i=0;i<2;i++)box(t,w*.74,.14,1.1+i*.5,0,.25-i*.13,d/2+1,colors.stone);
+  if(variant===1){for(let f=1;f<floors;f++){box(t,w+.65,.09,.65,0,.86+f*2.5,d/2+.1,colors.bronze);}}
   return t;
  }
  // Chamfered presentation plinth, waterway and a connected street grid.
@@ -81,14 +88,16 @@ export function createCity(){
  const incident=new T.Mesh(new T.OctahedronGeometry(.8),colors.warning.clone());layers.add(incident);
  const rain=new T.Group();layers.add(rain);const rainMaterial=new T.LineBasicMaterial({color:'#a9b9d0',transparent:true,opacity:.5});
  for(let i=0;i<38;i++){const x=20+(i*7%17),z=-5+(i*11%23),y=7+(i%7);const geo=new T.BufferGeometry().setFromPoints([new T.Vector3(x,y,z),new T.Vector3(x-.15,y-1.4,z)]);rain.add(new T.Line(geo,rainMaterial));}
+ const transient=[...silos,...paths,platform,flood,prediction,route,air,warning,history,trafficLayer,incident,rain,...energyBars];
+ const fadeMaterials=[];transient.forEach(g=>g.traverse(o=>{if(o.material){o.material=o.material.clone();o.userData.baseOpacity=o.material.opacity;fadeMaterials.push(o);}}));
  const materialGroups=[];
  buildings.children.forEach(g=>{const cache=new Map();g.traverse(o=>{if(o.isMesh){const old=o.material;if(!cache.has(old)){const m=old.clone();cache.set(old,m);materialGroups.push({material:m,base:old.color.clone(),asset:g.userData.asset});}o.material=cache.get(old);}});});
  function update(s){
   const shouldFocus=[3,4,5,6].includes(s.index);
-  materialGroups.forEach(({material,base,asset})=>material.color.copy(base).lerp(new T.Color('#f4f0f6'),shouldFocus && asset!==s.focus ? .6 : 0));
+  materialGroups.forEach(({material,base,asset})=>material.color.copy(base).lerp(new T.Color('#f4f0f6'),shouldFocus && asset!==s.focus ? .12 : 0));
   waterSurface.position.y=-.04+s.flood*.38;
   rain.visible=s.flood>.12;
-  trafficLayer.visible=s.index===5&&s.useIndex===1;trafficMaterial.color.set(s.traffic==='High'?'#e05262':s.traffic==='Medium'?'#f2b84b':'#a8e629');
+  trafficLayer.visible=s.index===5&&s.useIndex===1;trafficLayer.children.forEach(o=>o.material.color.set(s.traffic==='High'?'#e05262':s.traffic==='Medium'?'#f2b84b':'#a8e629'));
   incident.visible=s.index===5&&[1,4].includes(s.useIndex);
   incident.position.set(...(s.useIndex===4?[0,7,3]:[14,4,-7]));incident.material.color.set(s.incident==='Resolved'?'#a8e629':'#f2b84b');
 
@@ -102,6 +111,7 @@ export function createCity(){
   route.visible=(s.index===5&&[0,1].includes(s.useIndex)&&s.u>.4)||(s.index===6&&s.local>.6);
   air.visible=s.index===5&&s.useIndex===2;energyBars.forEach((b,i)=>{b.visible=s.index===5&&s.useIndex===3||s.index===6&&s.local>.8;b.scale.y=3+(i===0?(s.energy-420)/16:2);b.material.color.set(i===0?'#c044d9':'#c7ff3d');});
   history.visible=s.index===3;history.position.y= .9 + (s.local>.55?Math.sin(s.local*7)*.15:0);
+  const phase=s.index===5?s.u:s.local;const edge=Math.min(1,phase/.13,(1-phase)/.10);fadeMaterials.forEach(o=>{o.material.transparent=edge<1||o.userData.baseOpacity<1;o.material.opacity=o.userData.baseOpacity*Math.max(0,edge);});
   originals.forEach(({g,x,z},i)=>{g.position.x=x+Math.sin(s.p*17+i)*1.8;g.position.z=z;});
  }
  root.updateMatrixWorld(true);return {root,assets,locations,update};

diff --git a/src/intelligence/style.css b/src/intelligence/style.css
@@ -10,3 +10,9 @@
 .map-tags{position:absolute;inset:0;z-index:2;pointer-events:none;overflow:hidden}.map-tag{position:absolute;left:0;top:0;font-size:10px;line-height:1.4;white-space:nowrap;background:#fffffff2;color:#654471;border:1px solid #e7d9ed;border-radius:5px;padding:6px 9px;box-shadow:0 4px 13px #52205e08;margin-left:-40px;margin-top:-19px}.map-tag:before{content:"";width:5px;height:5px;background:#9ec934;display:inline-block;margin-right:6px;border-radius:50%}
 
 .city-poster{display:block;width:100%;height:auto;margin:0 0 25px;mix-blend-mode:multiply}
+
+/* Keep the architectural silhouette crisp; motion belongs to the camera. */
+.scene-ground{background:radial-gradient(ellipse,#dcdbe3 0,transparent 68%)}#story-title,#story-copy{transition:opacity .18s ease}.story-note{color:#74647d}#context{right:2.8%}.scene-caption{color:#65566f}
+
+.explain-steps{list-style:none;padding:0;margin:13px 0}.explain-steps li{display:flex;gap:11px;padding:10px 0;border-top:1px solid #ebe4ef;color:#6a5c73}.explain-steps li>span{width:22px;height:22px;flex:0 0 22px;display:grid;place-items:center;border-radius:50%;background:#eee7f1;font-size:11px;color:#745580}.explain-steps b{font-size:12px;font-weight:600;color:#594263}.explain-steps p{margin:5px 0 0;font-size:13px;line-height:1.5}.explain-steps .active>span{background:#c7ff3d;color:#3d2047}.explain-steps .active b{color:#52205e}#story-copy{color:#62526c;font-size:17px;line-height:1.65}body[data-chapter="5"] h1{font-size:clamp(34px,3.2vw,58px)}body[data-chapter="5"] #context{width:305px}.metric strong{font-size:36px}.metric>span{font-size:13px}.detail-link{font-size:13px}.operation-card .spark{height:31px}.card-label{color:#755582}.scene-controls>span{color:#6f6179}
+@media(max-height:800px) and (min-width:701px){#story-copy{font-size:15px}.explain-steps p{font-size:11px}.explain-steps li{padding:8px 0}body[data-chapter="5"] #context{width:280px}}

diff --git a/docs/city-intelligence.md b/docs/city-intelligence.md
@@ -15,11 +15,11 @@ Eight chapters: Living City → Fragmentation → Connected Platform → Data Fo
 - Three.js procedural city, orthographic camera, fixed diagonal orientation.
 - Modular procedural geometry, with segmented curtain walls and separately dimmable districts.
 - Deterministic scene and mock data from normalized scroll; reverse scrolling restores state.
-- Camera pan/zoom interpolates over the opening portion of each chapter or use case.
+- Camera pan/zoom interpolates over 55% of each chapter/use-case segment, with a short settling filter; reduced motion uses static camera presets. Canvas size only changes when the viewport changes.
 - Manual rotation limited to ±12° horizontally and ±5° vertically. Further scrolling or Return to story restores the guided camera.
 - Accessible HTML controls separate from canvas. Keyboard chapter navigation, native modal focus handling, reduced motion, fullscreen, loading progress.
 - Scene module lazy-loaded. Narrow screens skip all Three.js assets and show the full textual story. WebGL failure uses a lightweight vector-rendered 3D view; fatal scene errors show the textual story.
-- Render on state changes, suspend drawing in hidden tabs, cap device pixel ratio at 2 and reduce resolution/shadows if frame rendering is costly.
+- Render on state changes, suspend drawing in hidden tabs, cap device pixel ratio at 2 and preserve resolution and shadows through camera movement.
 - No real AI, live connections, device controls, customer branding, authentication or dashboard backend.
 
 ## Review notes
@@ -27,3 +27,7 @@ Eight chapters: Living City → Fragmentation → Connected Platform → Data Fo
 The city is procedural web geometry rather than a supplied GLB asset collection. Mobile uses a lightweight rendered city poster and the full chapter text. Review/Approve are disabled demonstration controls. Numerical performance on the user's GPU must be assessed on their device; the cloud visual browser may use the lightweight renderer.
 
 Existing Smart Building pages remain separately accessible. Unpublished earlier `/smart-city` draft files are not part of this page's build or deployment.
+
+## Readability refinement
+
+Use-case copy follows What happens → What you see → What the team does. Technical data-source explanations remain in detail dialogs. Facades use deeper blue-green glass, bronze fins, recessed entrances, entrance canopies and open roof terraces. Unselected districts retain most material contrast. No automatic one-frame quality downgrade.
